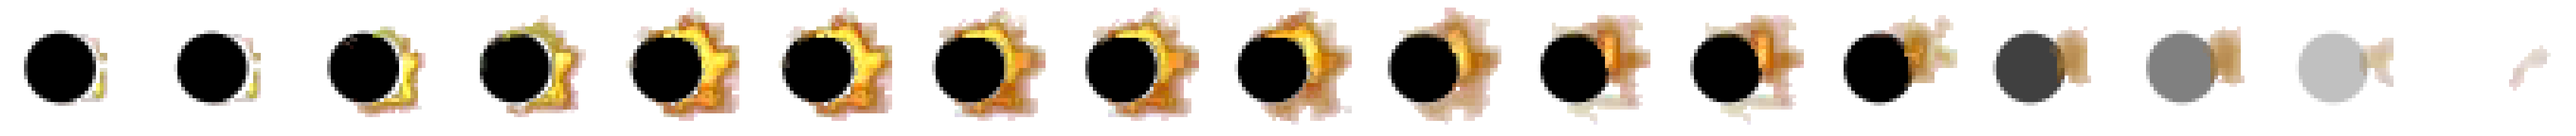
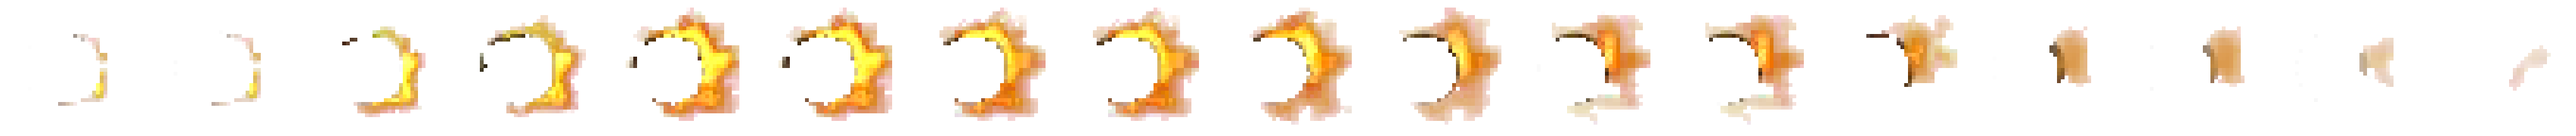
透明戦隊の爆破を見えるようにした

Changed region(s): [[0.0, 0.1111, 0.9338, 0.8611]]

diff --git a/js/render.js b/js/render.js
@@ -1,7 +1,7 @@
 /** Canvas rendering for 4-pane portrait shmup
  *  TOP opp / MIDDLE own / BOTTOM-ish ctrl (操作) / BOTTOM info — info 20%, remaining 80% split equally
  */
-import { EX_ITEM_STYLE, drawExFx } from './attack_items.js?v=20261005134146';
+import { EX_ITEM_STYLE, drawExFx } from './attack_items.js?v=20261005141815';
 
 export const INFO_RATIO = 0.2;
 export const OPP_RATIO = 0.8 / 3;
@@ -302,7 +302,7 @@ let enemySpritesLoading = false;
 
 function enemyAssetUrl(kind, frame) {
   // Relative to page (GitHub Pages root of this repo); ?v= busts CDN/browser cache
-  return `assets/enemies/${kind}/${frame}.png?v=20261005134146`;
+  return `assets/enemies/${kind}/${frame}.png?v=20261005141815`;
 }
 
 function loadKindSprite(kind) {
@@ -387,8 +387,8 @@ const BUBBLE_BOOM = { img: null, n: 17, fw: 240, fh: 216, cx: 16, cy: 18, vw: 40
 /** Hit ring = the video's own 1-px ring (180.47 s, 21×21 video px, centre 10.5, ×6 nearest). */
 const BUBBLE_RING = { img: null, n: 21, c: 10.5 };
 if (typeof Image !== 'undefined') {
-  const im = new Image(); im.decoding = 'async'; im.src = 'assets/fx/bubble_boom.png?v=20261005134146'; BUBBLE_BOOM.img = im;
-  const ri = new Image(); ri.decoding = 'async'; ri.src = 'assets/fx/bubble_ring.png?v=20261005134146'; BUBBLE_RING.img = ri;
+  const im = new Image(); im.decoding = 'async'; im.src = 'assets/fx/bubble_boom.png?v=20261005141815'; BUBBLE_BOOM.img = im;
+  const ri = new Image(); ri.decoding = 'async'; ri.src = 'assets/fx/bubble_ring.png?v=20261005141815'; BUBBLE_RING.img = ri;
 }
 /** Scripted-wave units that borrow a catalog sprite (e.spr) — spider / looper / saucer / ring pods. */
 const SCRIPT_SPRITES = ['gunship_alpha', 'light_destroyer', 'swarm', 'fighter_mk2'];
@@ -2538,12 +2538,17 @@ function drawEclipse(ctx, f) {
   const el = f.max - f.life;
   const i = Math.floor(el * B.fps);
   if (i < 0 || i >= B.n) return;
-  const k = (f.r || 30) / B.vr;
+  // 10-05b: video sheet keeps an opaque black body disk; on the dark field that disk
+  // vanishes and only a thin fire crescent remains — on phones it reads as "no explosion".
+  // Draw additive + slightly larger so the yellow/orange fire pops like the video (~181 s).
+  const k = ((f.r || 30) / B.vr) * 1.35;
   const x = f.x - (f.vx || 0) * el, y = f.y;
-  // plain bilinear from the ×6 sheet (cheap on phone GPUs); no per-size caches → no first-use hitch
-  const q = ctx.imageSmoothingQuality; ctx.imageSmoothingEnabled = true; ctx.imageSmoothingQuality = 'low';
+  ctx.save();
+  ctx.imageSmoothingEnabled = false; // keep pixel fire crisp at phone DPR
+  // black disk adds 0; fire adds brightly
+  ctx.globalCompositeOperation = 'lighter';
   ctx.drawImage(im, i * B.fw, 0, B.fw, B.fh, x - B.cx * k, y - B.cy * k, B.vw * k, B.vh * k);
-  ctx.imageSmoothingQuality = q;
+  ctx.restore();
 }
 function drawPxBoom(ctx, f, sizeMul = 1) {
   startPxBoomBuild();
@@ -3528,7 +3533,9 @@ export function drawField(ctx, area, snap, opts = {}) {
   }
 
   const fx = snap.fx || [];
+  // Non-eclipse FX first; 透明戦隊 eclipses drawn after the bubble ring so fire isn't buried
   for (const f of fx) {
+    if ((f.k ?? f.kind) === 'eclipse') continue;
     const tg = f.t || null;
     drawFx(ctx, {
       x: f.x * sx, y: f.y * sy, life: f.l ?? f.life, max: f.m ?? f.max, r: (f.r || 14) * sx,
@@ -3540,6 +3547,16 @@ export function drawField(ctx, area, snap, opts = {}) {
   for (const e of enemies) {
     if (e.kind !== 'wave_bubble') continue;
     drawEnemy(ctx, { x: e.x * sx, y: e.y * sy, w: (e.w || 20) * sx, h: (e.h || 16) * sy, kind: e.kind, hp: e.hp, _uid: e._uid ?? e.u });
+  }
+  for (const f of fx) {
+    if ((f.k ?? f.kind) !== 'eclipse') continue;
+    const tg = f.t || null;
+    drawFx(ctx, {
+      x: f.x * sx, y: f.y * sy, life: f.l ?? f.life, max: f.m ?? f.max, r: (f.r || 14) * sx,
+      kind: f.k ?? f.kind, sc: sx, g: f.g, ph: f.ph, n: f.n,
+      t: tg ? tg.map(([tx, ty]) => [tx * sx, ty * sy]) : undefined,
+      a: f.a, sd: f.sd, vx: f.vx != null ? f.vx * sx : undefined,
+    });
   }
 
   // player

diff --git a/js/game.js b/js/game.js
@@ -1,4 +1,4 @@
-import { runWaveScript, moveScripted, fireScripted, tickRearGuard } from './waves.js?v=20261005134146';
+import { runWaveScript, moveScripted, fireScripted, tickRearGuard } from './waves.js?v=20261005141815';
 import {
   POWERUPS, powerupMeta, pickPowerupId, DIRECT_DURATION, DIRECT_SHOT_DMG, DIRECT_SHOT_SPEED, spawnDirectShot, spawnDirectOutShot, createPlayer, spawnEnemy, spawnBullet, spawnItem, spawnItemWithId, spawnExplosion, spawnHitSpark, spawnMeteor, serializeField, SHOCK_RADIUS, spawnShockFx, spawnBombFx, spawnHealFx,
   PLAYER_MAX_HP, ITEM_DROP_CHANCE, BOT_ITEM_DROP_CHANCE,
@@ -6,14 +6,14 @@ import {
   WAVE_KIND_TIERS, LARGE_ENEMY_TIERS,
   hasCore, tickCoreExtras, applyCoreAwareHit, applyCoreAwareArea, applyCoreAwareBeam, coreWorld, magnetStep, ITEM_MAGNET_R,
   markCoreChain, tickChain, spawnChainBoom, spawnKillBoom, pushKillBooms, spawnEclipse, pushEclipse, applyLaserTick, spawnCoin, tickCoins, trimFx, spawnCoreEscorts, tickEscort, CHAIN_R, isCoreBossKind, bigCoreKind,
-} from './entities.js?v=20261005134146';
-import { resizeCanvas, renderFrame, layout, INFO_RATIO, OPP_RATIO, OWN_RATIO, CTRL_RATIO, itemSlotRects, hitItemSlot, MAX_ITEM_SLOTS, registerEnemyKinds } from './render.js?v=20261005134146';
-import { sfx } from './audio.js?v=20261005134146';
-import { isExAttackItem, useExItem, tickExItems, hasBarrierFx } from './attack_items.js?v=20261005134146';
-import { ALL_KIND_IDS, CATALOG_BY_ID, unitStats, atkDamageMul, defHpMul, pickSendKinds, sentUnitHp } from './catalog.js?v=20261005134146';
-import { hitBattleCounter } from './stats.js?v=20261005134146';
-import { loadMeta, grantComVictoryPt, grantCoinPt, COM_DECK, DECK_SIZE, buildComDeck, COM_DIFFICULTY, COUNTER_LABEL, comAiForLevel, comRankInfo, recordComResult } from './meta.js?v=20261005134146';
-import { usesLoadout, loadoutTelegraph, fireLoadoutVolley, loadoutReload, tickEnemyAttackQueue, updateEnemyBullet } from './attacks.js?v=20261005134146';
+} from './entities.js?v=20261005141815';
+import { resizeCanvas, renderFrame, layout, INFO_RATIO, OPP_RATIO, OWN_RATIO, CTRL_RATIO, itemSlotRects, hitItemSlot, MAX_ITEM_SLOTS, registerEnemyKinds } from './render.js?v=20261005141815';
+import { sfx } from './audio.js?v=20261005141815';
+import { isExAttackItem, useExItem, tickExItems, hasBarrierFx } from './attack_items.js?v=20261005141815';
+import { ALL_KIND_IDS, CATALOG_BY_ID, unitStats, atkDamageMul, defHpMul, pickSendKinds, sentUnitHp } from './catalog.js?v=20261005141815';
+import { hitBattleCounter } from './stats.js?v=20261005141815';
+import { loadMeta, grantComVictoryPt, grantCoinPt, COM_DECK, DECK_SIZE, buildComDeck, COM_DIFFICULTY, COUNTER_LABEL, comAiForLevel, comRankInfo, recordComResult } from './meta.js?v=20261005141815';
+import { usesLoadout, loadoutTelegraph, fireLoadoutVolley, loadoutReload, tickEnemyAttackQueue, updateEnemyBullet } from './attacks.js?v=20261005141815';
 
 const HINT = '敵を倒してアイテム取得（デカ敵は回復が出やすい・所持最大3つ）';
 const TUTORIAL_KEY = 'shootingOnline_tutorialDone';

diff --git a/index.html b/index.html
@@ -9,7 +9,7 @@
   <meta name="theme-color" content="#1a0a08" />
   <script>
   (function () {
-    var PAGE_LABEL = '2026-10-05 13:41:46';
+    var PAGE_LABEL = '2026-10-05 14:18:15';
     var busy = false;
     function check() {
       if (busy || window.__stbScreen === 'game' || document.visibilityState === 'hidden') return;
@@ -62,7 +62,7 @@
   }
   </script>
   <link rel="icon" href="favicon.svg" type="image/svg+xml" />
-  <link rel="stylesheet" href="css/style.css?v=20261005134146" />
+  <link rel="stylesheet" href="css/style.css?v=20261005141815" />
 <link rel="apple-touch-icon" href="/shooting-online/apple-touch-icon.png" />
 <meta name="apple-mobile-web-app-title" content="スペトリ" />
 </head>
@@ -72,7 +72,7 @@
       <div class="sky sky-space" aria-hidden="true"></div>
       <div class="menu-pt" id="menu-pt" aria-live="polite">いまの持ちPT 0</div>
       <div class="menu-hero">
-        <img class="menu-hero-art" src="assets/title-hero.svg?v=20261005134146" alt="スペーストリックバトル" width="480" height="220" decoding="async" />
+        <img class="menu-hero-art" src="assets/title-hero.svg?v=20261005141815" alt="スペーストリックバトル" width="480" height="220" decoding="async" />
         <header class="menu-brand">
           <h1 class="game-title">スペーストリックバトル<span class="beta-badge">β版</span></h1>
           <p class="game-subtitle">オンライン対戦</p>
@@ -115,7 +115,7 @@
         <p class="menu-hint">部屋名→入室（ゲスト）／部屋を作る（ホスト）</p>
         <a class="hub-link" href="https://nikkukyuu-code.github.io/">トップページへ</a>
         <div id="app-meta" class="app-meta">
-          <span id="app-version">2026-10-05 13:41:46</span>
+          <span id="app-version">2026-10-05 14:18:15</span>
           <span class="meta-sep">·</span>
           <span id="app-visits">アクセス …</span>
           <span class="meta-sep" hidden>·</span>
@@ -191,7 +191,7 @@
       <div id="ui-overlay">
         <button type="button" id="btn-stop" class="stop-btn">ストップ</button>
         <div id="match-timer" class="match-timer" hidden aria-live="polite"><span class="mt-main"></span><span class="mt-sub" hidden></span></div>
-        <div id="game-version" class="game-version">2026-10-05 13:41:46</div>
+        <div id="game-version" class="game-version">2026-10-05 14:18:15</div>
         <div id="status-bar" class="status-bar">対戦相手を待っています</div>
       </div>
       <div id="end-overlay" class="end-overlay hidden">
@@ -203,6 +203,6 @@
   </div>
 
   <script src="https://unpkg.com/peerjs@1.5.4/dist/peerjs.min.js"></script>
-  <script type="module" src="js/main.js?v=20261005134146"></script>
+  <script type="module" src="js/main.js?v=20261005141815"></script>
 </body>
 </html>

diff --git a/js/main.js b/js/main.js
@@ -1,12 +1,12 @@
-import { VERSION_LABEL, BUILD_NOTE, BUILD_TIME, formatVersionTime } from './version.js?v=20261005134146';
-import { Net } from './net.js?v=20261005134146';
-import { Game } from './game.js?v=20261005134146';
-import { CATALOG, CATALOG_BY_ID, unitIntro, RARITY_JA, unitStats, sentUnitHp } from './catalog.js?v=20261005134146';
-import { loadMeta, saveMeta, buyUnit, setDeckSlot, DECK_SIZE, loadNewUnits, clearUnitNew, comRankInfo, COM_LEVEL_MAX, shopPrice } from './meta.js?v=20261005134146';
-import { loadBattleCount } from './stats.js?v=20261005134146';
-import { registerEnemyKinds, prepareMatchAssets, isMatchPrepDone } from './render.js?v=20261005134146';
-import { ALL_KIND_IDS } from './catalog.js?v=20261005134146';
-import { setKindTier, POWERUPS, WAVE_KIND_TIERS } from './entities.js?v=20261005134146';
+import { VERSION_LABEL, BUILD_NOTE, BUILD_TIME, formatVersionTime } from './version.js?v=20261005141815';
+import { Net } from './net.js?v=20261005141815';
+import { Game } from './game.js?v=20261005141815';
+import { CATALOG, CATALOG_BY_ID, unitIntro, RARITY_JA, unitStats, sentUnitHp } from './catalog.js?v=20261005141815';
+import { loadMeta, saveMeta, buyUnit, setDeckSlot, DECK_SIZE, loadNewUnits, clearUnitNew, comRankInfo, COM_LEVEL_MAX, shopPrice } from './meta.js?v=20261005141815';
+import { loadBattleCount } from './stats.js?v=20261005141815';
+import { registerEnemyKinds, prepareMatchAssets, isMatchPrepDone } from './render.js?v=20261005141815';
+import { ALL_KIND_IDS } from './catalog.js?v=20261005141815';
+import { setKindTier, POWERUPS, WAVE_KIND_TIERS } from './entities.js?v=20261005141815';
 
 registerEnemyKinds(ALL_KIND_IDS);
 setKindTier({
@@ -148,7 +148,7 @@ function refreshComRank() {
 }
 
 function spriteUrl(id) {
-  return `assets/enemies/${id}/0.png?v=20261005134146`;
+  return `assets/enemies/${id}/0.png?v=20261005141815`;
 }
 
 function unitName(id) {

diff --git a/js/version.js b/js/version.js
@@ -1,8 +1,8 @@
 /** Visible build id: Asia/Tokyo publish datetime (YYYY-MM-DD HH:mm:ss). */
-export const VERSION_LABEL = '2026-10-05 13:41:46';
+export const VERSION_LABEL = '2026-10-05 14:18:15';
 /** Epoch ms of this publish (also drives the 「最新」 badge window). */
-export const BUILD_TIME = 1791175306000;
-export const BUILD_NOTE = '敵サイズに応じて撃破爆破を拡大（床は従来サイズ・巨大船体は複数バースト）';
+export const BUILD_TIME = 1791177495000;
+export const BUILD_NOTE = '透明戦隊の爆破を見えるようにした（加算合成・黒円マット除去）';
 
 export function formatVersionTime(ms = BUILD_TIME) {
   try {

diff --git a/js/attack_items.js b/js/attack_items.js
@@ -11,7 +11,7 @@
  * Damage only lowers e.hp — death / drops / score stay in the game loops.
  * All items are intentionally weaker than ボム (28 to every enemy + full bullet clear).
  */
-import { spawnBullet, spawnExplosion, spawnHitSpark, isLargeEnemy } from './entities.js?v=20261005134146';
+import { spawnBullet, spawnExplosion, spawnHitSpark, isLargeEnemy } from './entities.js?v=20261005141815';
 
 export const EX_ATTACK_IDS = ['pbeam', 'option', 'cluster', 'blackhole', 'freeze', 'reflect', 'barrier'];
 export function isExAttackItem(id) { return EX_ATTACK_IDS.includes(id); }

diff --git a/js/attacks.js b/js/attacks.js
@@ -8,8 +8,8 @@
  *  - Player-hit damage per projectile: homing 3, everything else 5 (see game.js),
  *    × the firing unit's 攻撃力 multiplier (b.atk, catalog.js atkDamageMul).
  */
-import { spawnBullet, resolveEnemyTier, isLargeEnemy, isWaveKind } from './entities.js?v=20261005134146';
-import { unitAttackLoadout } from './catalog.js?v=20261005134146';
+import { spawnBullet, resolveEnemyTier, isLargeEnemy, isWaveKind } from './entities.js?v=20261005141815';
+import { unitAttackLoadout } from './catalog.js?v=20261005141815';
 
 const PI = Math.PI;
 const TAU = PI * 2;

diff --git a/js/meta.js b/js/meta.js
@@ -2,7 +2,7 @@
  * localStorage key: shootingOnline_meta (NEVER rename — would wipe player PT).
  * Backup key: shootingOnline_meta_bak. On every update, preserve pt; never clear storage.
  */
-import { CATALOG, CATALOG_BY_ID, STARTER_DECK, LEGACY_ID_MAP, SEND_GROUPS, unitStats, unitAttackLoadout } from './catalog.js?v=20261005134146';
+import { CATALOG, CATALOG_BY_ID, STARTER_DECK, LEGACY_ID_MAP, SEND_GROUPS, unitStats, unitAttackLoadout } from './catalog.js?v=20261005141815';
 
 export const META_KEY = 'shootingOnline_meta';
 export const DECK_SIZE = 5;

diff --git a/js/waves.js b/js/waves.js
@@ -25,7 +25,7 @@
  *  2:11     trap zone: bobbing mines + caterpillars + snake returns
  *  3:40 R2  loopers, jet boss (sweep / dash / spiral), saucer circles
  */
-import { spawnEnemy, spawnCoreEscorts, spawnBullet, GUARD_HP } from './entities.js?v=20261005134146';
+import { spawnEnemy, spawnCoreEscorts, spawnBullet, GUARD_HP } from './entities.js?v=20261005141815';
 
 /** Global fire-rate tune for scripted units (cooldowns × this; < 1 = denser). */
 const FIRE_CD_MUL = 0.6;
